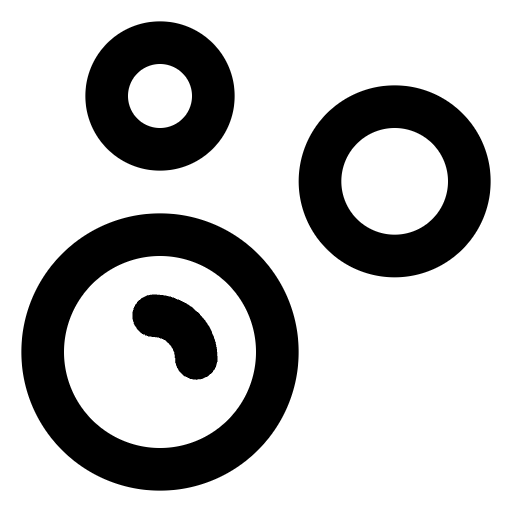
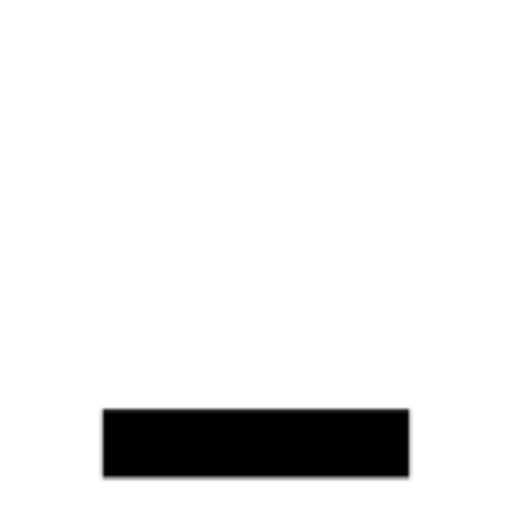
🐤

diff --git a/components/Dizzle.tsx b/components/Dizzle.tsx
@@ -4,6 +4,8 @@ import { useGSAP } from '@gsap/react';
 import gsap from 'gsap';
 import { useRef } from 'react';
 import { NightMode } from './Util/NightMode';
+import Image from 'next/image';
+import Link from 'next/link';
 
 export const Dizzle = () => {
   const headerRef = useRef<HTMLDivElement>(null);
@@ -21,22 +23,15 @@ export const Dizzle = () => {
     >
       {/* <SunIcon /> */}
       {/* <RabbitIcon /> */}
-      <svg
-        xmlns='http://www.w3.org/2000/svg'
-        width='24'
-        height='24'
-        viewBox='0 0 24 24'
-        fill='none'
-        stroke='currentColor'
-        strokeWidth='2'
-        strokeLinecap='round'
-        strokeLinejoin='round'
-      >
-        <path d='M7.2 14.8a2 2 0 0 1 2 2' />
-        <circle cx='18.5' cy='8.5' r='3.5' />
-        <circle cx='7.5' cy='16.5' r='5.5' />
-        <circle cx='7.5' cy='4.5' r='2.5' />
-      </svg>
+      <Link href={'/'}>
+        <Image
+          src={'/web-app-manifest-192x192.png'}
+          alt=''
+          width={30}
+          height={30}
+          className='translate-y-[-5px] dark:invert'
+        />
+      </Link>
       <div>
         <NightMode />
       </div>

diff --git a/app/layout.tsx b/app/layout.tsx
@@ -4,12 +4,10 @@ import LayoutEffect from '@/components/LayoutEffect';
 import { Miracle } from '@/components/Miracle';
 import { Metadata, Viewport } from 'next';
 import './globals.css';
-import { Slashhhhhhhhhhhhhhhhhhhhhhhhh } from '@/components/Slashhhhhhhhhhhhhhhhhhhhhhhhh';
-import { Squeze } from '@/components/Util/Squeze';
 
 export const metadata: Metadata = {
-  title: ' ',
-  description: ' ',
+  title: 'illuzion',
+  description: 'illuzion',
 };
 export const viewport: Viewport = {
   themeColor: '#fff',

diff --git a/components/Miracle.tsx b/components/Miracle.tsx
@@ -142,14 +142,14 @@ export const Miracle = () => {
 interface MiracleButtonProps {
   isSelected: boolean;
   children: ReactNode;
-  label: string;
+  label: SECTION;
   onClick: MouseEventHandler;
   firstMounted: boolean;
 }
 export const MiracleButton = ({
   isSelected = false,
   children = <></>,
-  label = '',
+  label,
   onClick,
   firstMounted,
 }: MiracleButtonProps) => {
@@ -239,7 +239,7 @@ export const MiracleButton = ({
           {label}
         </p>
       </div>
-      {isSelected && (
+      {isSelected && ([SECTION.ARTICLE]).includes(label) && (
         <>
           <div ref={moreRef}>
             {isMore && (

diff --git a/components/LayoutEffect.tsx b/components/LayoutEffect.tsx
@@ -11,7 +11,7 @@ import {
   SplitText,
 } from 'gsap/all';
 import { ReactNode, useCallback, useEffect } from 'react';
-import { Squeze } from './Util/Squeze';
+import { Squeze } from './Util/🐤';
 import { useSquezeStore } from '@/store/squeze';
 
 interface Props {

diff --git a/components/Util/BackDrop.tsx b/components/Util/BackDrop.tsx
@@ -5,7 +5,7 @@ interface Props {
 }
 export const BackDrop = ({ children }: Props) => {
   return (
-    <div className='fixed top-0 left-0 z-10 flex h-screen w-screen items-center justify-center bg-[#ffffff14] backdrop-blur-[2px]'>
+    <div className='fixed top-0 left-0 z-10 flex h-screen w-screen items-center justify-center bg-[#ffffffce] dark:bg-[#2121219a] backdrop-blur-[2px]'>
       {children}
     </div>
   );